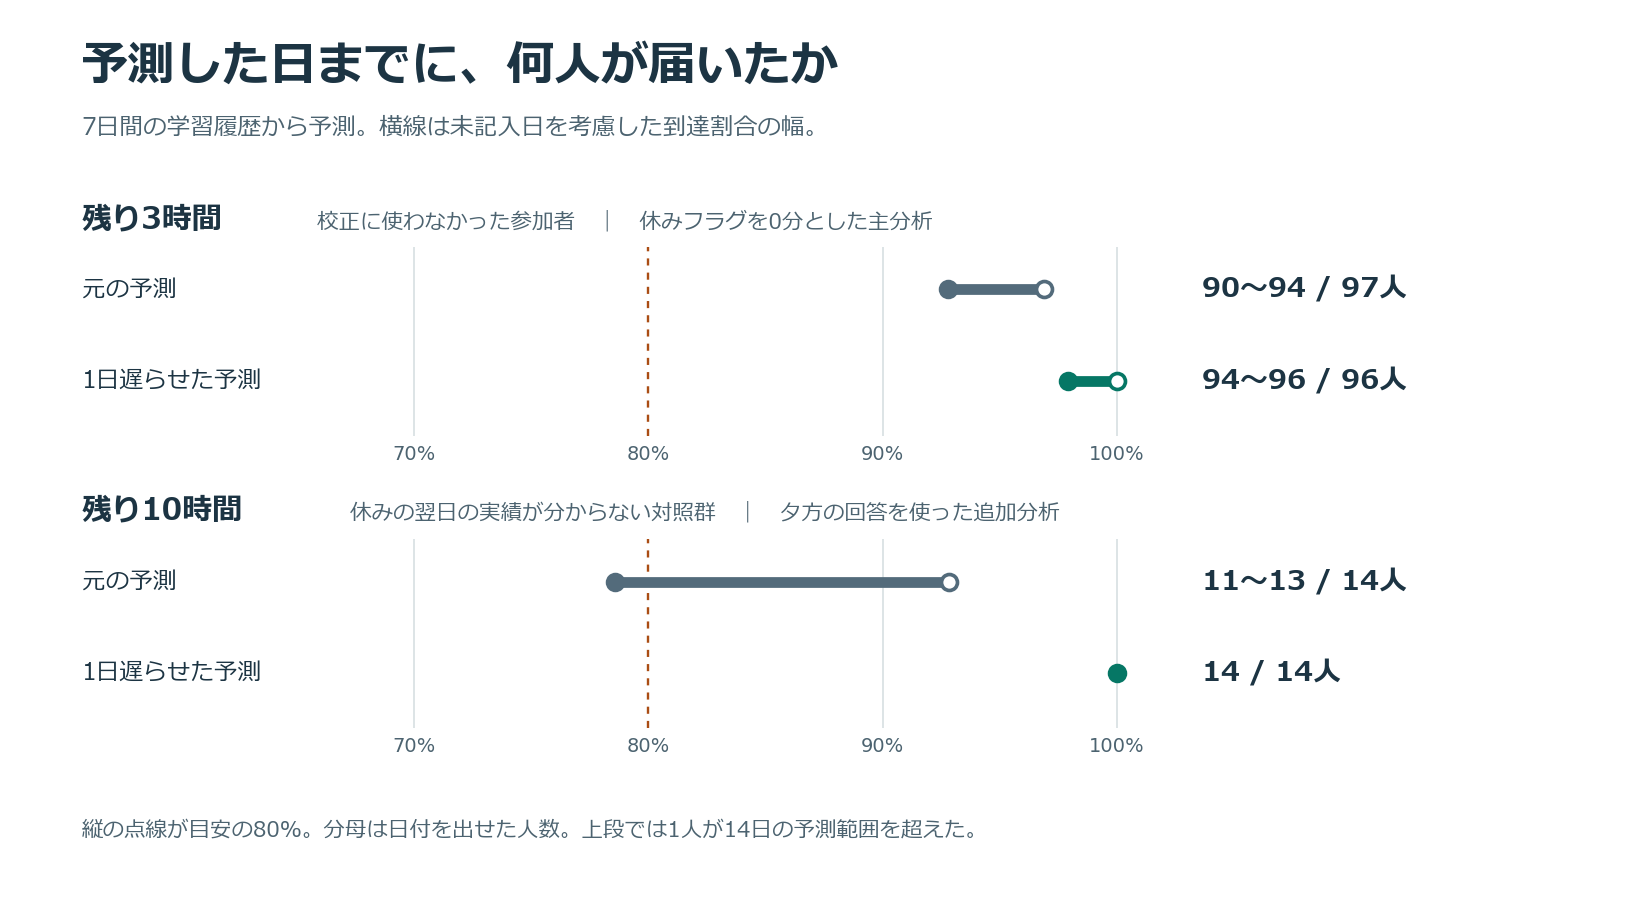
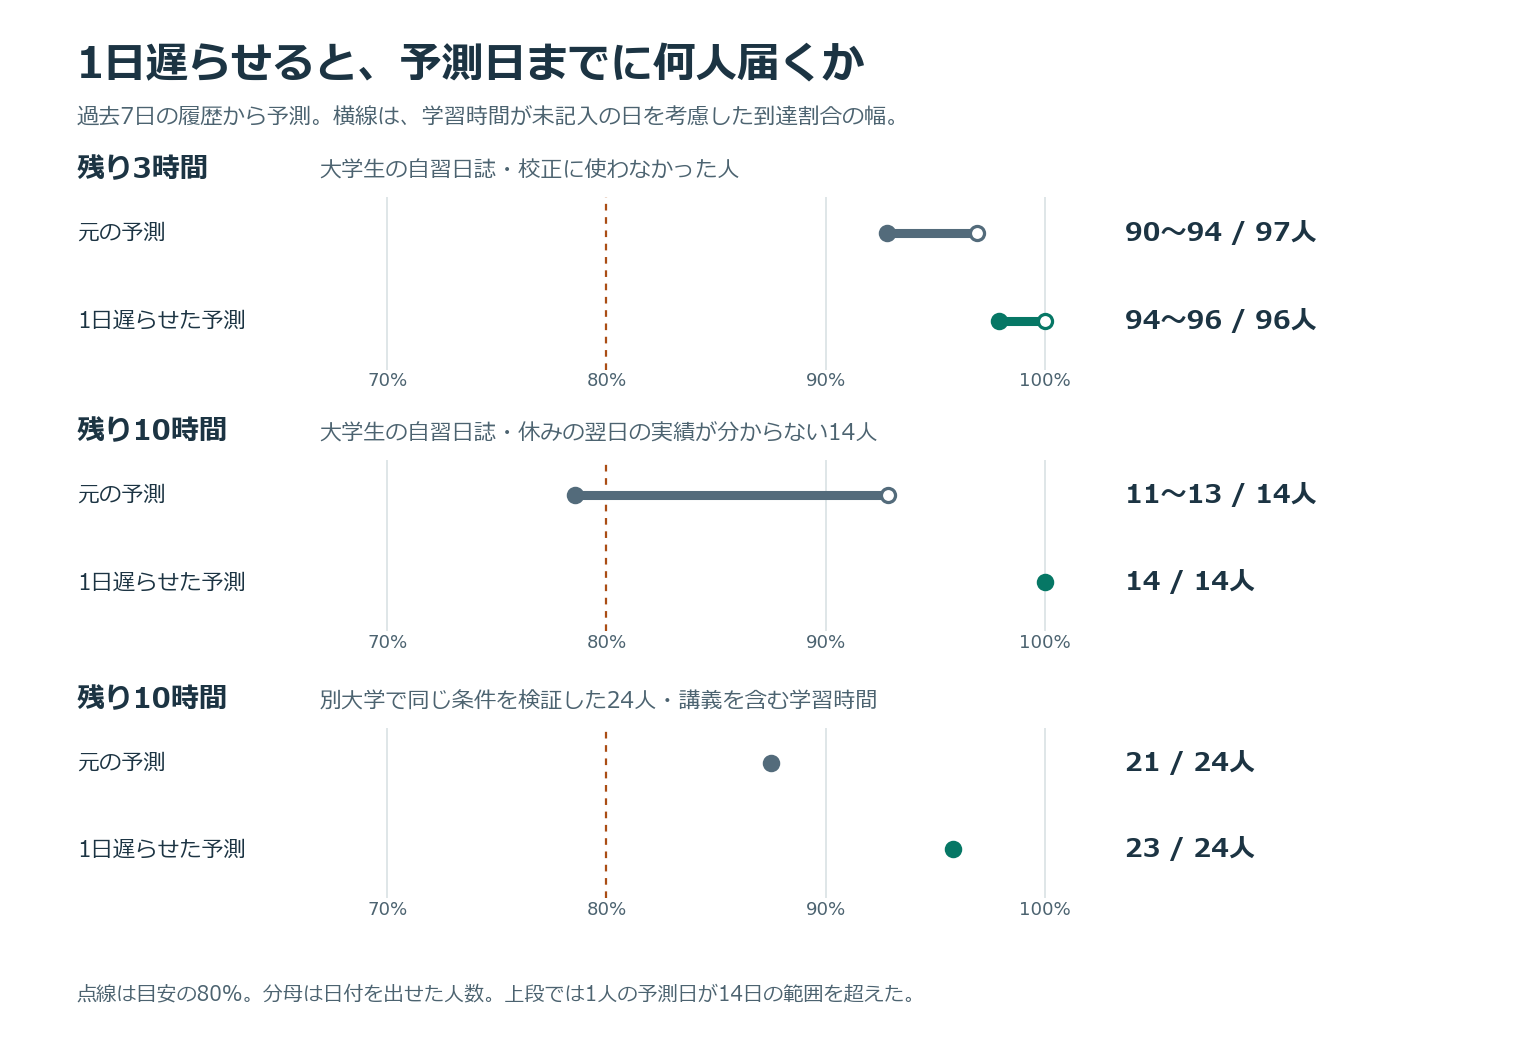
research: 別大学の学習日誌で1日補正の効果を追試する (#352)

diff --git a/experiments/variable-amount-forecast/study-p80.md b/experiments/variable-amount-forecast/study-p80.md
@@ -2,7 +2,9 @@
 
 大学生の自習日誌で、予測日までに残りの勉強時間を積み上げられた人数を調べた。**残り3時間では、日付を遅らせる必要は見られなかった。** 直近7日を使い、補正用と分けた131人のうち97人に日付を出せた。元の予測日までに少なくとも90人、多くて94人が届いていた（92.8〜96.9%）。一方、残り10時間で休んだ翌日の様子が分からない一部の人には、1日遅らせると見積もりが改善した。[研究Issueと結果を見る前の条件](https://github.com/FutureROI-DevTeam/Future-ROI/issues/352)
 
-![残り3時間では元から97人中90〜94人が期限内。追加分析の残り10時間では、同じ14人で11〜13人が1日の補正後に14人になった](study-p80.png)
+別の工科大学の日誌では、この条件を先に固定して試した。補正対象の24人のうち、早く見積もりすぎた人は3人から1人に減った。ただし元の時点で87.5%が期限内に届いていたため、遅く言いすぎた分も含む誤差は少し増えた。[別大学での検証](#別大学の154日間の学習日誌で追試)
+
+![学習日誌で元の予測と1日補正を比較。探索群は14人中11〜13人から14人、別大学の補正対象は24人中21人から23人が期限内に届いた](study-p80.png)
 
 ## 日誌と参加者の分け方
 
@@ -54,23 +56,38 @@
 
 **1日の補正で改善した例**は、最後の行のうち休みの翌日の実績がない14人。元の日付で11〜13人、1日遅らせると14人全員が届いた。取り下げはなく、同じ日誌上で早すぎた日付を1〜3人分解消した。この層について校正用データから学んだ3日の補正でも14人全員だったが、分位損失は元より0.386〜0.529悪化した。1日補正の差は−0.014〜+0.129で、改善・悪化の両方が残った。
 
-その14人を含まない96人で同じ条件を見ると、日付を出せた該当者は21人。元の期限で18〜21人、1日遅らせて19〜21人、取り下げ0人。早すぎた日付を解消した人数は0〜3人で、分位損失は0.057〜0.200悪化した。**「残りが多く、休んだ後の再開ペースが分からない場合に限り1日足す」は次に検証する仮説**として残る。
+その14人を含まない96人で同じ条件を見ると、日付を出せた該当者は21人。元の期限で18〜21人、1日遅らせて19〜21人、取り下げ0人。早すぎた日付を解消した人数は0〜3人で、分位損失は0.057〜0.200悪化した。この結果から、別大学に持ち込む条件を「残り10時間で、休んだ翌日の実績が一度も分からない場合だけ1日足す」と固定した。
+
+## 別大学の154日間の学習日誌で追試
+
+Liborius・Bellhäuser・Schmitzが工科大学で収集した105人・154日の日誌を使用した。`time_use` は自習と講義出席を合わせた時間で、時間単位の小数を分に換算した。多研究論文のStudy 2として公開された配布表には全員の全調査日（0〜153）があり、無回答日にも時間欄に0が入っている。著者の判定式どおり、時間と他の6項目の合計が欠測を除き0になる1,198日を不明とした。15時間以上の26日も不明とした。結果、16,170日のうち実績既知14,946日、うち0分6,028日。全期間の回答率を使った除外は行わず、105人全員を発行率の分母にした。[原論文](https://doi.org/10.1016/j.learninstruc.2017.10.006)・[多研究論文のTable 1](https://doi.org/10.1016/j.cedpsych.2023.102208)・[Study 2のデータ](https://osf.io/download/8sxd7/)・[著者の欠測判定コード](https://osf.io/download/a8c4u/)
+
+105人の結果を見る前に、上記の1日補正と起点をIssueに記録した。この大学では再学習していない。残り10時間について、左の3列は日付を出せた全員、右の3列はそのうち補正対象になった人の結果を示す。
+
+| 履歴・起点 | 日付発行／105人 | 全員の到達人数（元 → 補正） | 補正した人数 | その人の到達人数（元 → 補正） | 補正対象の分位損失差 |
+| --- | ---: | ---: | ---: | ---: | ---: |
+| 7日・調査14日目 | 80／105 | 73 → 75 | 24 | 21 → 23 | +0.075 |
+| 14日・調査14日目 | 81／105 | 74 → 74 | 17 | 15 → 15 | +0.082 |
+| 28日・調査28日目 | 91／105 | 82〜84 → 82〜84 | 6 | 5 → 5 | +0.033 |
+
+7日履歴では1日遅らせて**2人の早すぎる日付を解消**し、取り下げは0件。元から21人／24人は期限内で、残り3人のうち1人は補正後の期限も過ぎた。最初から間に合う21人にも1日ずつ余裕を加えたため、24人の平均分位損失は0.075悪化した。14日・28日履歴では期限に間に合う人数が増えなかった。参考の残り3時間は補正対象外で、7日履歴84人／87人、14日83〜84人／89人、28日88〜89人／95人が元の期限までに届いた。同じ学生を履歴長ごとに足し合わせることはできない。
 
 ## 再実行
 
 リポジトリのNode 24.22.3、R 4.4.1の標準パッケージで確認した。実験は著者が研究用に公開した配布ファイルをローカルで読む。OSFのライセンス欄は両プロジェクトとも未指定。ここには分析コードと集計・図のみを収録した。[大きい配布表](https://osf.io/download/xuw8r/)・[対照群の配布表](https://osf.io/download/3v8gb/)
 
-リポジトリルートで `npm ci` と `npm run build:prediction` を実行する。`Rscript` をPATH上に置くか、環境変数 `RSCRIPT` に実行ファイルのパスを設定する。次の2パスをダウンロード先に置き換える。
+リポジトリルートで `npm ci` と `npm run build:prediction` を実行する。`Rscript` をPATH上に置くか、環境変数 `RSCRIPT` に実行ファイルのパスを設定する。各コマンドの `path/to/...` を対応するダウンロード先に置き換える。
 
 ```sh
 node --test experiments/variable-amount-forecast/study-p80.test.mjs
 node experiments/variable-amount-forecast/study-p80.mjs path/to/data.RData path/to/data.csv
 node experiments/variable-amount-forecast/study-p80.mjs path/to/data.RData path/to/data.csv --recorded-hours-only
 node experiments/variable-amount-forecast/study-p80.mjs path/to/data.RData path/to/data.csv --evening-response
+node experiments/variable-amount-forecast/study-p80.mjs --liborius path/to/data_project2.RData
 ```
 
[2 lines of base64/hex data omitted]
 
 ## 適用できる範囲
 
-日誌は大学生が試験に備えた30日間の自己申告で、分数は学習の質や試験の得点を表さない。3時間・10時間は各人に共通の仮の残量で、利用者自身が設定した目標の達成日は未検証。調査14日目を選んだため、季節や試験時期が変わった場合の再現性も不明。行動と欠測の関係、発行対象の絞り込み、少人数の層があるので、個人に対する80%保証は導けない。実利用に向けた次の検証は、別に収集された学習日誌で「残り10時間・休みの翌日が未観測・最大1日の補正」を先に固定し、発行率・到達割合・早すぎと遅すぎの損失を一緒に比べること。
+対象は大学生の自己申告で、一方は試験前の自習、もう一方は自習と講義を合わせた学習時間。3時間・10時間は研究上の仮の残量で、製品利用者自身が設定した目標の到達日や、中断後の再開時期の予測は未検証。発行率、欠測、少人数の層があるため、個人に対する80%保証は導けない。一律の標準補正を支持する結果は得られなかった。次の検証対象は「早すぎた人」と「すでに間に合っていた人」を発行時点の記録でさらに見分けられるかである。
